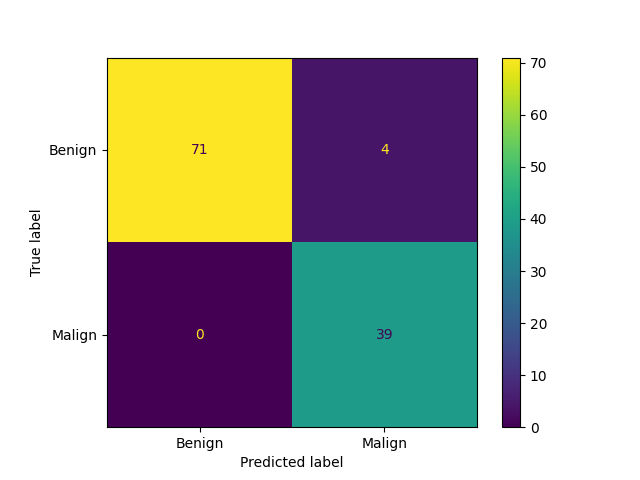
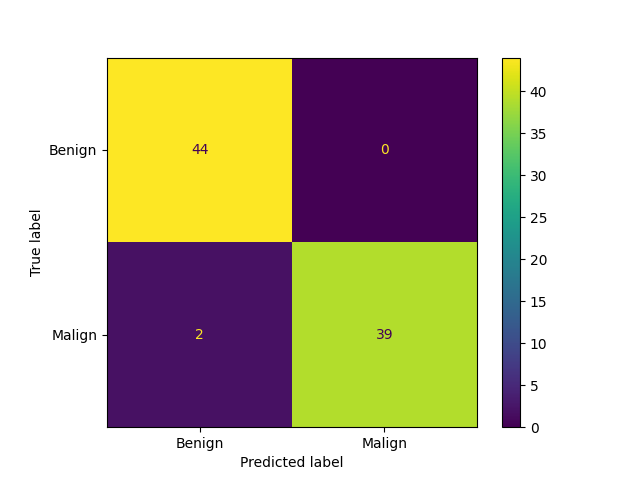
API created

diff --git a/src/train.py b/src/train.py
@@ -14,8 +14,10 @@ from sklearn.compose import ColumnTransformer
 from sklearn.impute import SimpleImputer
 from sklearn.linear_model import LogisticRegression
 from sklearn.feature_selection import SelectKBest, f_classif
-from sklearn.preprocessing import MinMaxScaler
+from sklearn.preprocessing import MinMaxScaler, StandardScaler
 from sklearn.metrics import f1_score, accuracy_score
+
+from imblearn.under_sampling import RandomUnderSampler
 
 import logging
 from io import StringIO
@@ -40,6 +42,7 @@ data_path = api.read('data/data.csv', remote='data-track') # DVC associated path
 
 df = pd.read_csv(StringIO(data_path))
 df.drop('id', axis=1, inplace=True)
+df.drop(['concave_points_mean', 'radius_worst', 'perimeter_worst', 'area_worst'], axis=1, inplace=True)
 
 try:
     df.drop('Unnamed: 32', axis=1, inplace=True)
@@ -47,8 +50,12 @@ except:
     pass
 
 sc = MinMaxScaler()
+
 X = df.drop('diagnosis', axis=1)
 y = df.diagnosis
+
+under_sampler = RandomUnderSampler(random_state=42)
+X, y = under_sampler.fit_resample(X, y)
 
 logger.info('Spliting data into train and test ...')
 
@@ -59,6 +66,12 @@ logger.info('Scaling the data ...')
 X_train = pd.DataFrame(sc.fit_transform(X_train), columns=X.columns)
 X_test = pd.DataFrame(sc.transform(X_test), columns=X.columns)
 
+logger.info('One hot encoding ...')
+y_train.replace(list(np.unique(y_train)), [0, 1], inplace=True)
+y_test.replace(list(np.unique(y_test)), [0, 1], inplace=True)
+X_train.to_csv('x_t.csv')
+
+
 logger.info('Loading model ...')
 
 column_transformer = ColumnTransformer([
@@ -68,7 +81,7 @@ column_transformer = ColumnTransformer([
 model = Pipeline([
     ('datafeed', column_transformer),              # grabs finalized datasets
     ('selector', SelectKBest(f_classif, k='all')), # variable selection procedure
-    ('classifier', LogisticRegression(penalty='l2', C=0.5, verbose=1, n_jobs=-1))           # Logistic modeling
+    ('classifier', LogisticRegression(penalty='l2', tol=1e-20, C=0.9, verbose=1, n_jobs=-1, max_iter=1000))           # Logistic modeling
 ])
 
 logger.info('Setting Hyperparameters to tune')
@@ -97,12 +110,12 @@ train_score = np.round(np.mean(results['train_score']), decimals=2);
 test_score = np.round(np.mean(results['test_score']), decimals=2);
 
 # F1 & Accuracy scores
-model_f1_score = f1_score(y_pred, y_test, pos_label='M')
+model_f1_score = f1_score(y_pred, y_test, pos_label=1)
 model_accuracy = accuracy_score(y_pred, y_test)
 
 
-assert train_score > 0.7
-assert test_score > 0.8
+#assert train_score > 0.1
+#assert test_score > 0.9
 
 logger.info(f'With cross validation, The train score is {train_score} while the test score is {test_score}')
 logger.info(f'The model archieved a {np.round(model_f1_score, decimals=3)*100}% of f1 score and a {np.round(model_accuracy, decimals=3)*100}% of accuracy')

diff --git a/api/app/models.py b/api/app/models.py
@@ -1,0 +1,32 @@
+from pydantic import BaseModel
+
+class PredictionRequest(BaseModel):
+    radius_mean: float
+    texture_mean: float
+    perimeter_mean: float
+    area_mean: float
+    smoothness_mean: float
+    compactness_mean: float
+    concavity_mean: float
+    symmetry_mean: float
+    fractal_dimension_mean: float
+    radius_se: float
+    texture_se: float
+    perimeter_se: float
+    area_se: float
+    smoothness_se: float
+    compactness_se: float
+    concavity_se: float
+    concave_points_se: float
+    symmetry_se: float
+    fractal_dimension_se: float
+    texture_worst: float
+    smoothness_worst: float
+    compactness_worst: float
+    concavity_worst: float
+    concave_points_worst: float
+    symmetry_worst: float
+    fractal_dimension_worst: float
+
+class PredictionResponse(BaseModel):
+    diagnostic: str

diff --git a/api/app/utils.py b/api/app/utils.py
@@ -1,0 +1,25 @@
+from joblib import load
+from sklearn.pipeline import Pipeline
+from pydantic import BaseModel
+from pandas import DataFrame
+import os
+from io import BytesIO
+
+def get_model()->Pipeline:
+    """
+    Input:
+    Output:
+    """
+    model_path = os.environ.get('MODEL_PATH', 'models/model.pkl')
+    with open(model_path, 'rb') as model_file:
+        model = load(BytesIO(model_file.read()))
+    return model
+
+def transform_to_dataframe(class_model: BaseModel) -> DataFrame:
+    """
+    Input:
+    Output:
+    """
+    dictionary = {key: [value] for key, value in class_model.dict().items()}
+    df = DataFrame(dictionary)
+    return df

diff --git a/api/app/views.py b/api/app/views.py
@@ -1,0 +1,13 @@
+from .models import PredictionRequest
+from .utils import get_model, transform_to_dataframe
+
+model = get_model()
+
+def get_prediction(request: PredictionRequest) -> float:
+    """
+    Input: request. PredictionRequest instance used to compute the prediction of the model 
+    Output: prediction. Prediction of the model
+    """
+    data_to_predict = transform_to_dataframe(request)
+    prediction = model.predict(data_to_predict)[0]
+    return prediction

diff --git a/api/main.py b/api/main.py
@@ -1,0 +1,11 @@
+from fastapi import FastAPI
+from .app.models import PredictionResponse, PredictionRequest
+from .app.views import get_prediction
+
+
+app = FastAPI(doc_url='/')
+
+@app.post('/v1/prediction')
+
+def make_model_prediction(request: PredictionRequest):
+    return PredictionResponse(worldwide_gross=get_prediction(request))
